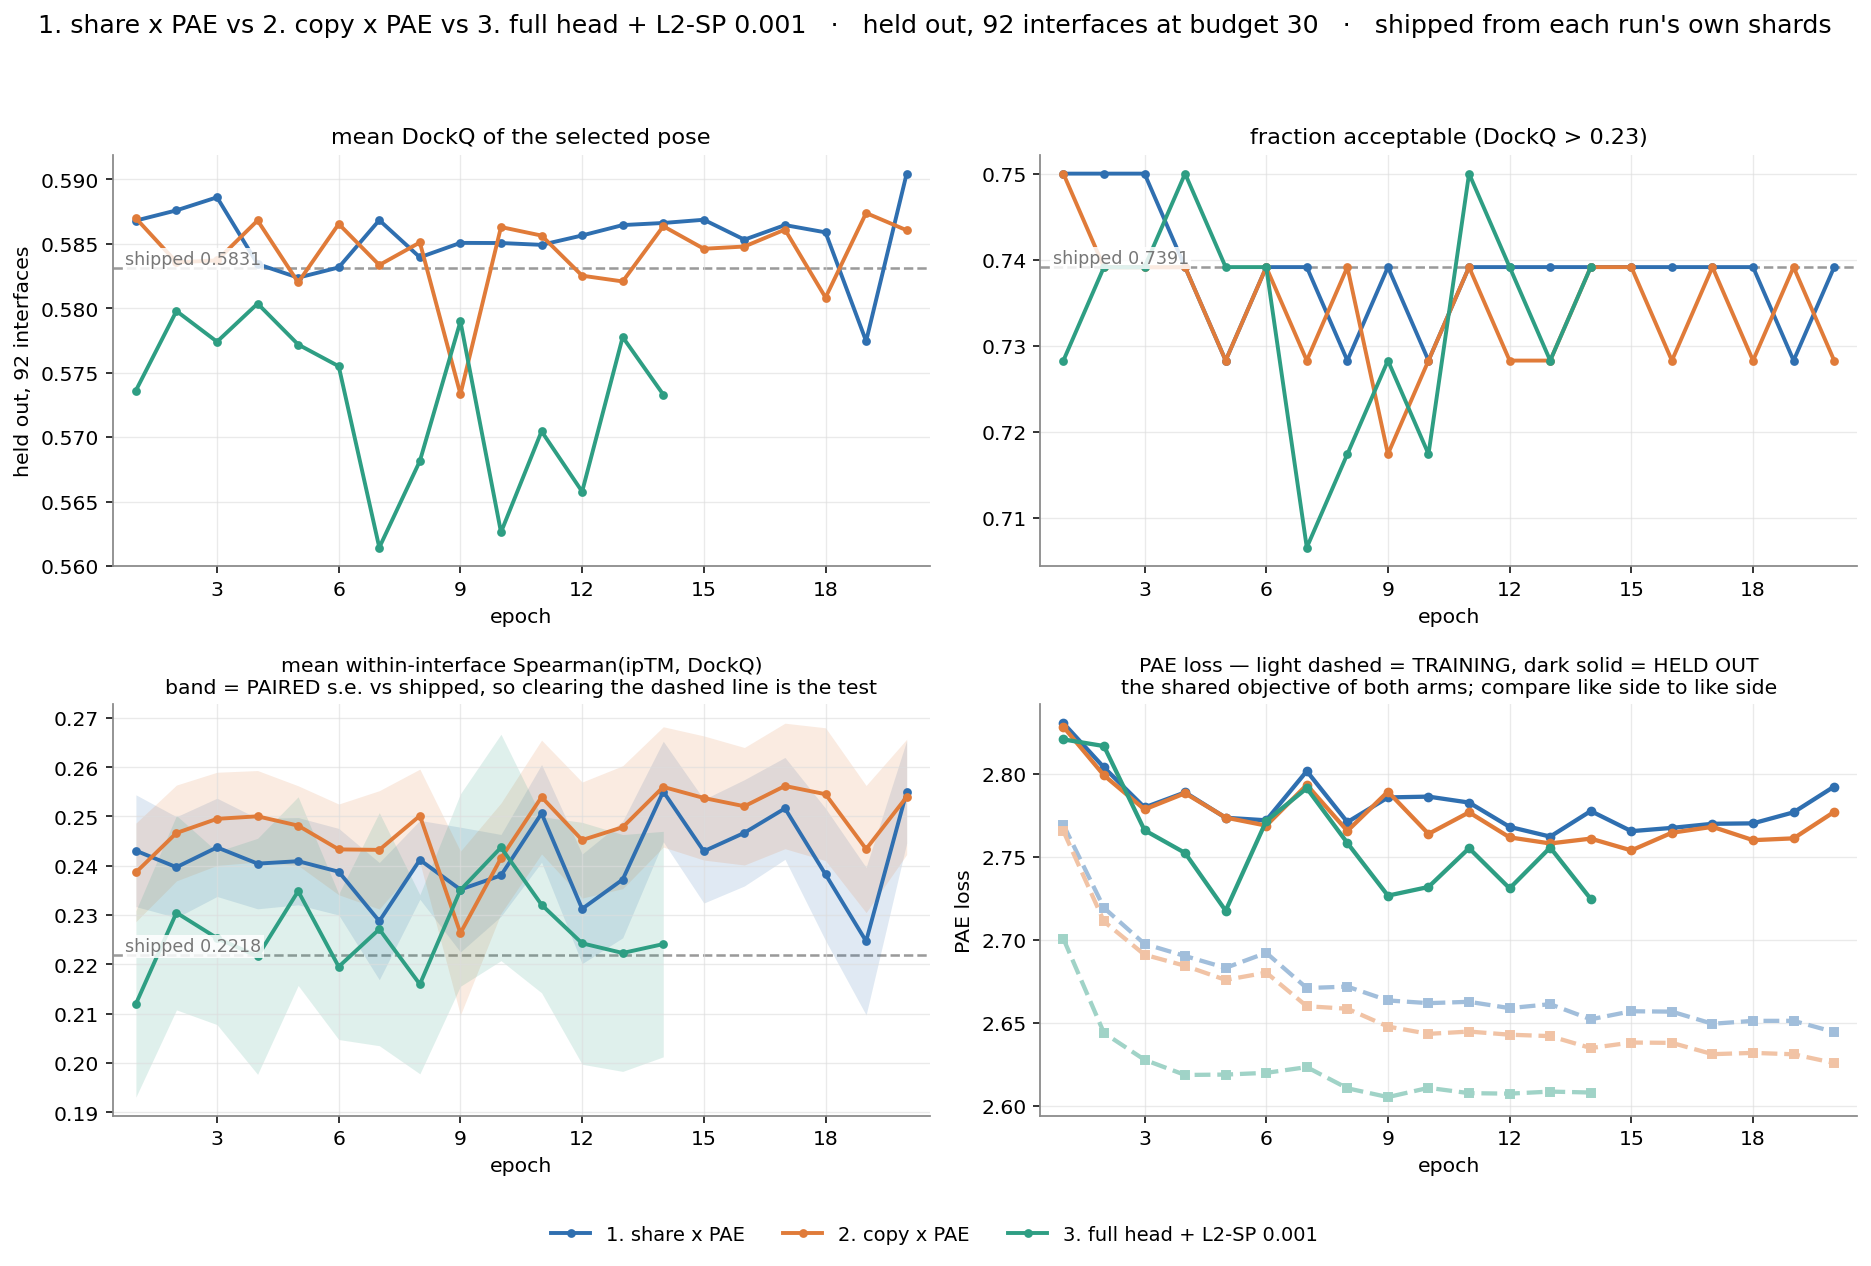
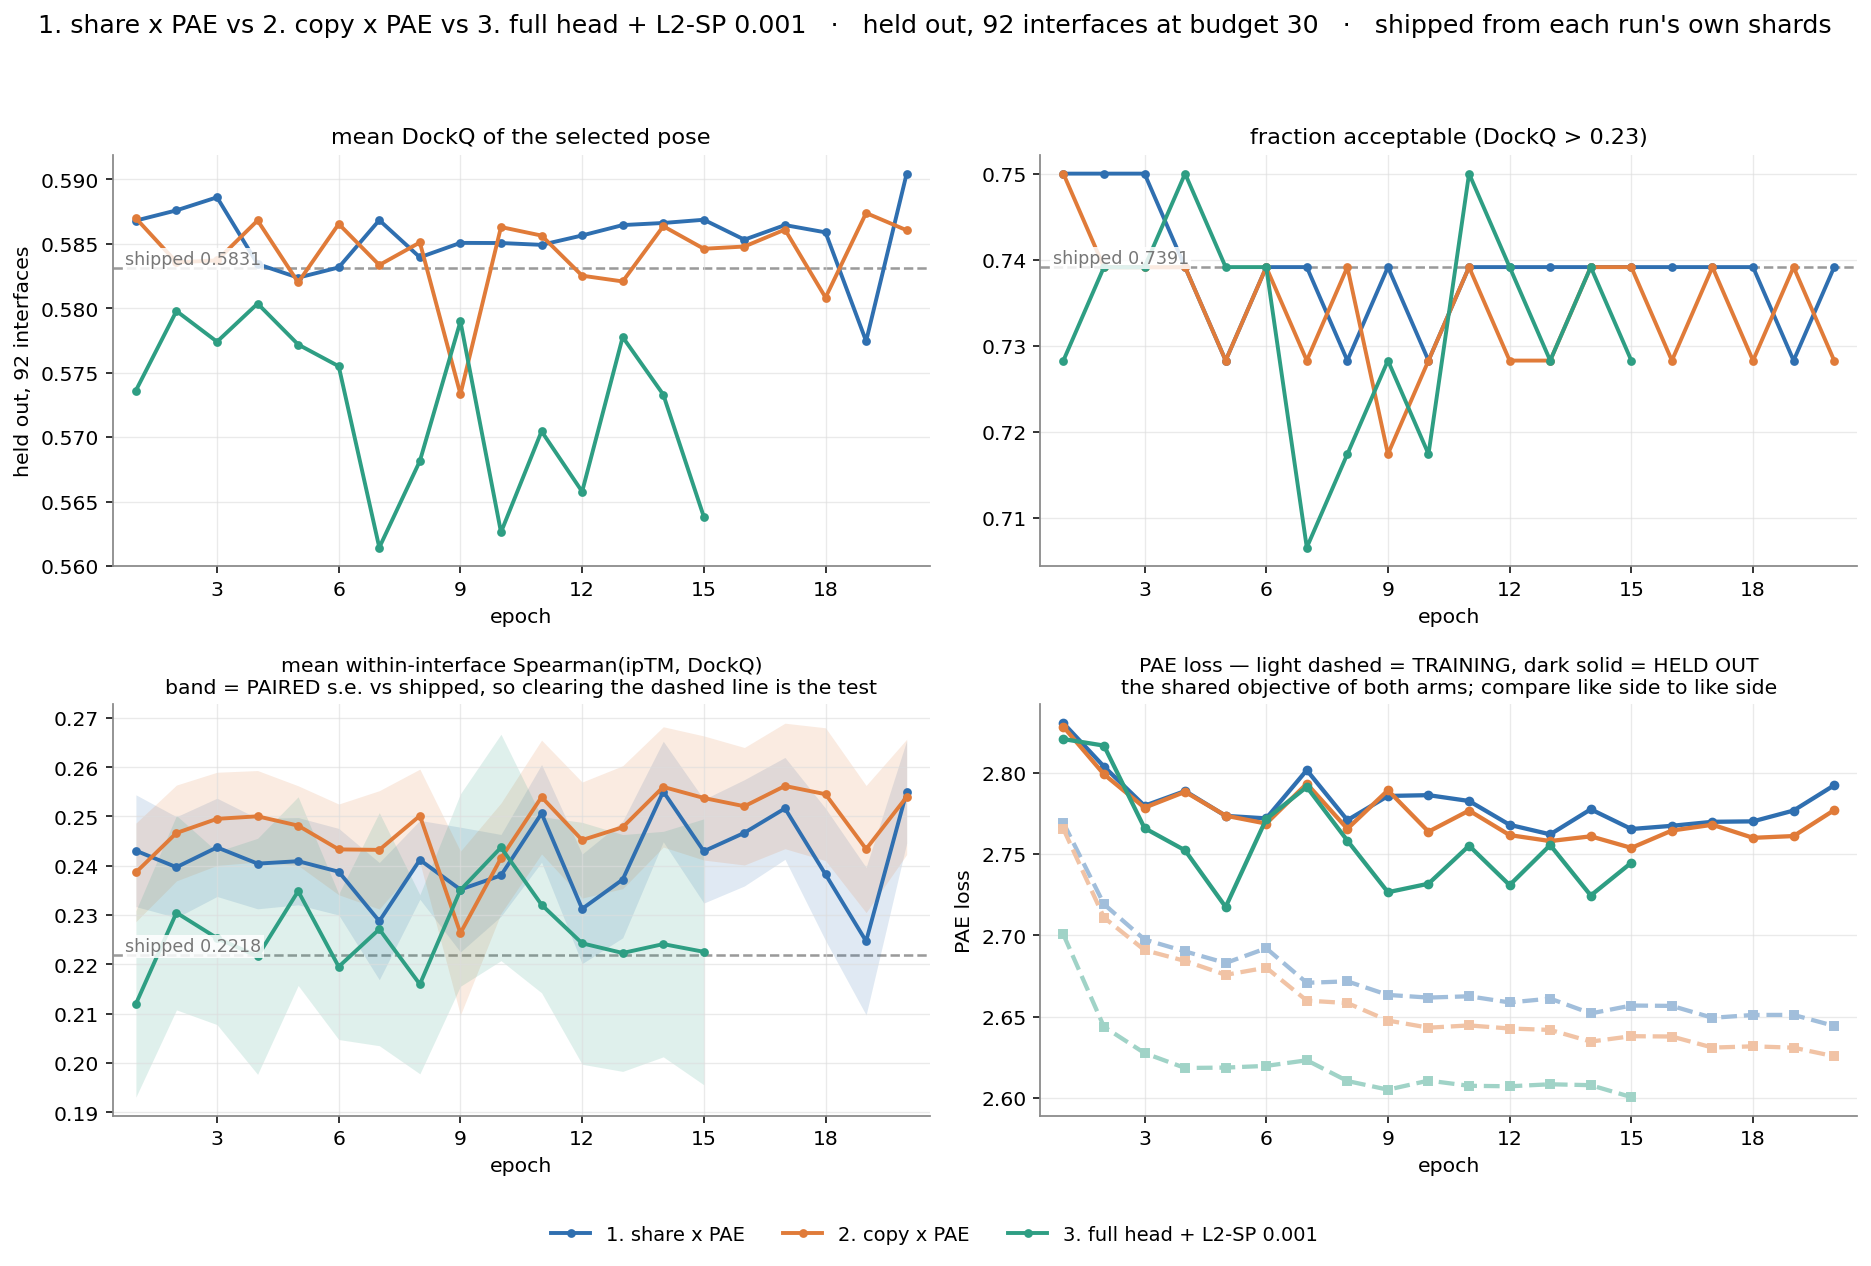
tv6hue epoch 15: DockQ 0.5638 frac 0.7283, val PAE 2.7447, drift 54.5
Fifteen epochs, DockQ still never above shipped 0.5830; the arm's best remains epoch 4's 0.5803.
Epoch 14's rho cached at 0.2241 against shipped 0.2218 -- the fourth consecutive value within
0.012 of shipped, which is the converged-on-shipped picture rather than a lead.

Drift holds near the top of its range at 54.5 after epoch 14's 55.3.

Tenth epoch running with all three held-out shards clean.

Claude-Session: https://claude.ai/code/session_014t55QPNWnMkjqFi95YVBtG

diff --git a/extra_training/EXPERIMENTS.md b/extra_training/EXPERIMENTS.md
@@ -36,7 +36,7 @@ Oracle ceiling: DockQ 0.6926, frac 0.8587 → **headroom 0.1096**.
 
 ![arms overlay](figures/arms_overlay.png)
 
-*Regenerated 2026-10-27 3:05 AM EDT. Every number below comes from each run's own train_eval shards and rank_rho cache; shipped is recomputed from the same rows via `stored_iptm`.*
+*Regenerated 2026-10-27 3:36 AM EDT. Every number below comes from each run's own train_eval shards and rank_rho cache; shipped is recomputed from the same rows via `stored_iptm`.*
 
 Shipped on `valfull` (92 interfaces, budget 30): DockQ **0.5830**, frac **0.7391**, rho **0.2218**.
 
@@ -44,11 +44,11 @@ Shipped on `valfull` (92 interfaces, budget 30): DockQ **0.5830**, frac **0.7391
 |---|---|---|---|---|---|---|---|---|
 | 1 | `ip8ga4` | 1..20 | 0.5904 | 0.7391 | 0.2550 | +0.0074 ± 0.0040 | 2.6443 | 2.7923 |
 | 2 | `dntxmn` | 1..20 | 0.5860 | 0.7283 | 0.2540 | +0.0030 ± 0.0032 | 2.6256 | 2.7770 |
-| 3 | `tv6hue` | 1..14 | 0.5733 | 0.7391 | 0.2241 | -0.0098 ± 0.0046 | 2.6078 | 2.7245 |
+| 3 | `tv6hue` | 1..15 | 0.5638 | 0.7283 | 0.2225 | -0.0194 ± 0.0119 | 2.6005 | 2.7447 |
 
 - **1. share x PAE** (`ip8ga4`, 20 epochs): paired ΔDockQ mean **+0.0023**; rho 0.2550 (best 0.2551) vs shipped 0.2218; train PAE 2.7693 → 2.6443; val PAE 2.8305 → 2.7923, min 2.7621 at epoch 13.
 - **2. copy x PAE** (`dntxmn`, 20 epochs): paired ΔDockQ mean **+0.0011**; rho 0.2540 (best 0.2562) vs shipped 0.2218; train PAE 2.7654 → 2.6256; val PAE 2.8283 → 2.7770, min 2.7538 at epoch 15.
-- **3. full head + L2-SP 0.001** (`tv6hue`, 14 epochs): paired ΔDockQ mean **-0.0101**; rho 0.2241 (best 0.2437) vs shipped 0.2218; train PAE 2.7005 → 2.6078; val PAE 2.8207 → 2.7245, min 2.7174 at epoch 5.
+- **3. full head + L2-SP 0.001** (`tv6hue`, 15 epochs): paired ΔDockQ mean **-0.0107**; rho 0.2225 (best 0.2437) vs shipped 0.2218; train PAE 2.7005 → 2.6005; val PAE 2.8207 → 2.7447, min 2.7174 at epoch 5.
 
 <!-- AUTO:END -->
 
